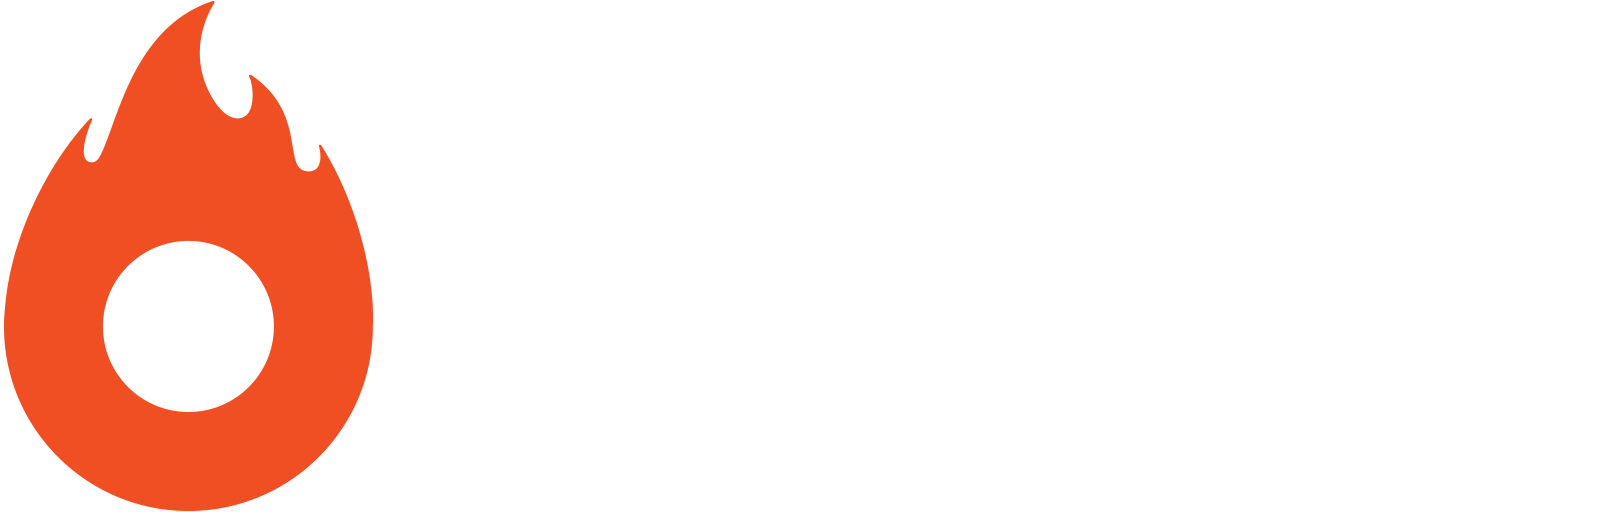
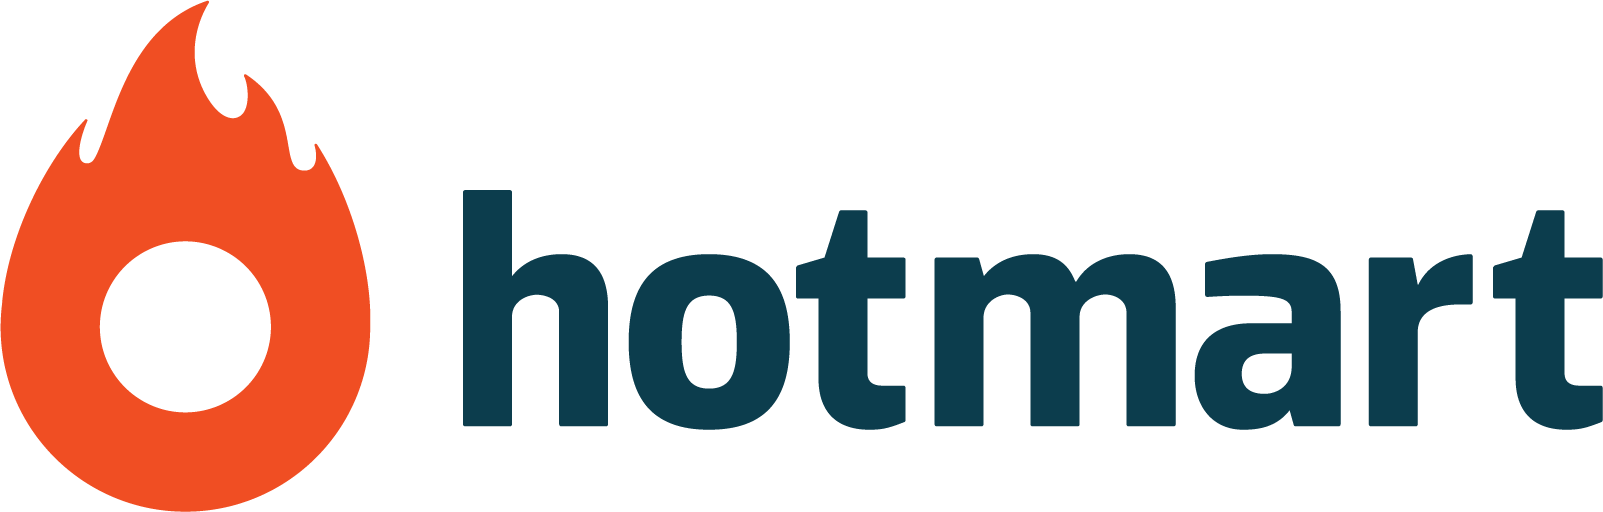
Updating sponsors

diff --git a/index.html b/index.html
@@ -95,14 +95,26 @@ lang="pt" %}
         
         <div class="row no-margin">
             <h3 class="block-title">Diamante</h3>
-            <div class="no-padding col-xs-8 col-md-4">
+            <div class="no-padding col-xs-8 col-md-5">
                 <a href="http://www.hotmart.com.br" target="_blank">
-                    <div class="sponsor-entry size-50 darkblue">
-                        <img src="assets/img/sponsors/hotmart.png" alt="Hotmart">
+                    <div class="sponsor-entry size-diamond darkblue">
+                        <img src="assets/img/sponsors/hotmart-white.png" alt="Hotmart">
                     </div>
                 </a>
             </div>
         </div>
+        <br/><br/><br/>
+        <div class="row no-margin">
+            <h3 class="block-title">Ouro</h3>
+            <div class="no-padding col-xs-8 col-md-4">
+                <a href="http://www.avenuecode.com.br/" target="_blank">
+                    <div class="sponsor-entry size-gold white">
+                        <img src="assets/img/sponsors/avenue-code.png" alt="Avenue Code">
+                    </div>
+                </a>
+            </div>
+        </div>
+
 
         <!-- 
             <div class="no-padding col-xs-6 col-md-3">
@@ -149,9 +161,9 @@ lang="pt" %}
         <br/><br/><br/>
         <div class="row no-margin">
             <h3 class="block-title">Apoio</h3>
-            <div class="no-padding col-xs-4 col-md-2">
+            <div class="no-padding col-xs-4 col-md-1">
                 <a href="https://www.infoq.com/br/devday/" target="_blank">
-                    <div class="sponsor-entry white">
+                    <div class="sponsor-entry size-50 white">
                         <img src="assets/img/sponsors/infoq.png" alt="InfoQ Brasil">
                     </div>
                 </a>

diff --git a/assets/css/style.css b/assets/css/style.css
@@ -724,9 +724,9 @@ body { font-family: 'Open Sans', sans-serif; }
 /* 21 - SPONSORS */
 /*-------------------------------------------------------------------------------------------------------------------------------*/
 .sponsor-wrapper { margin-bottom: 50px; }
-.sponsor-entry { overflow: hidden; position: relative; width: 100%; padding-bottom: 100%; }
-.sponsor-entry.size-50 { padding-bottom: 50%; }
-
+.sponsor-entry { overflow: hidden; position: relative; width: 100%; padding-bottom: 70%; }
+/*.sponsor-entry.size-diamond { padding-bottom: 50%; }*/
+.sponsor-entry.size-gold { width: 90%; padding-bottom: 60%; }
 .sponsor-entry.green { background: #8ab81d; }
 .sponsor-entry.white { background: #fff; }
 .sponsor-entry.blue { background: #2791ce; }
@@ -734,7 +734,8 @@ body { font-family: 'Open Sans', sans-serif; }
 .sponsor-entry.red { background: #e11621; }
 .sponsor-entry.darkblue { background: #053d4e; }
 .sponsor-entry img { position: absolute; top: 50%; left: 50%; -webkit-transform: translateX(-50%) translateY(-50%); -moz-transform: translateX(-50%) translateY(-50%); -ms-transform: translateX(-50%) translateY(-50%); -o-transform: translateX(-50%) translateY(-50%); transform: translateX(-50%) translateY(-50%); max-width: 80%; }
-.sponsor-entry.size-50 img { max-width: 80%; }
+.sponsor-entry.size-diamond img { max-width: 80%; }
+.sponsor-entry.size-gold img { max-width: 65%; }
 /*-------------------------------------------------------------------------------------------------------------------------------*/
 /* 21 - TALKS */
 /*-------------------------------------------------------------------------------------------------------------------------------*/
